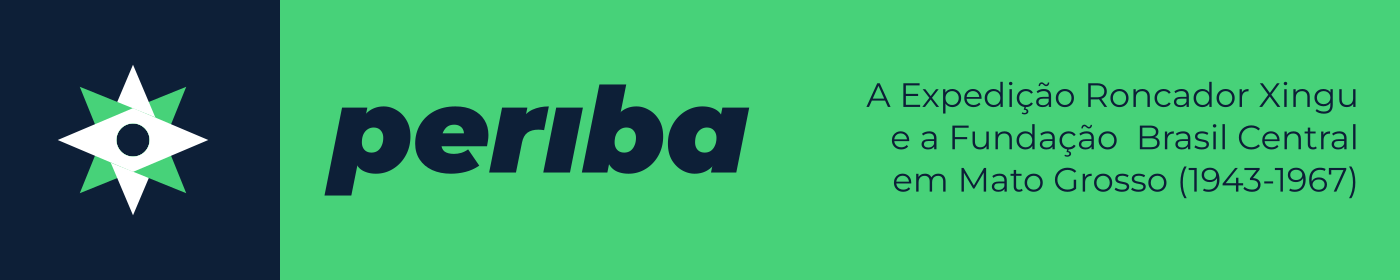
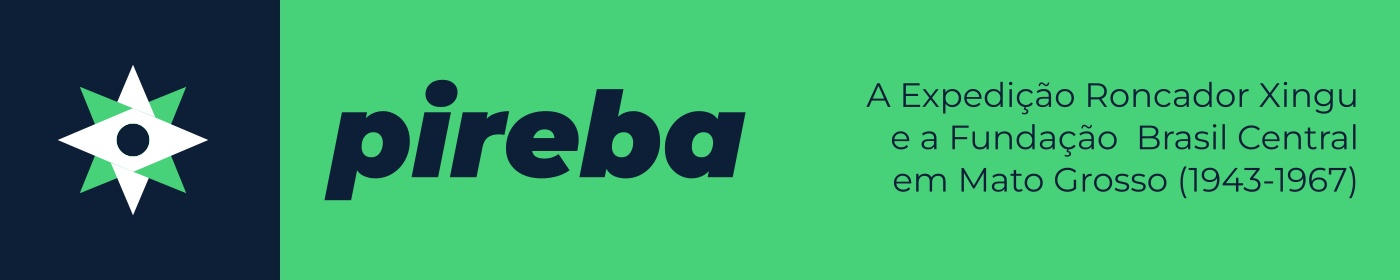
Atualização das images do site e do ReadMe

Changed region(s): [[0.2457, 0.2857, 0.5529, 0.6571], [0.43, 0.2857, 0.4607, 0.3429], [0.215, 0.6857, 0.2764, 0.7143]]

diff --git a/README.md b/README.md
@@ -1,10 +1,10 @@
 <div style="text-align: center;">
 <img src="./src/assets/images/screenshot.png" alt="Projeto Roncador-Xingu" title="Projeto Roncador-Xingu" title="Projeto Roncador-Xingu" /></div>
 
-## 📑 Sobre o _site_ Pireba - rio abaixo
+## 📑 Sobre o _site_ Pireba e a Expedição Roncador-Xingu
 
 <p align="justify">
-O site <em><strong>Pireba - rio abaixo</strong>: a Expedição Roncador-Xingu (1943-1967)</em> é um produto resultante da pesquisa "Desbravando o sertão, conquistando o Brasil: a Expedição Roncador Xingu e a Fundação Brasil Central em Mato Grosso (1943-1967)", uma investigação acerca da forma como se procedeu a Expedição Roncador-Xingu e a atuação da Fundação Brasil Central na Expedição dos Irmãos Villas-Boas, realizada no leste de Mato Grosso, na região do Vale do Araguaia. Desenvolvida sob a supervisão do Prof. Ms. Luiz Gabriel de Souza Nogueira, a pesquisa também contou com a participação das estudantes Aluna 01, Aluna 02 e Aluno 03 que, até o final do ano de 2022, integravam a <a href="https://www.instagram.com/escolatiradentesab/" title="Escola Estadual Militar Tiradentes 3° Sgt PM Justino Pinheiro dos Santos" target="_blank" rel="noreferrer noopener">Escola Estadual Militar Tiradentes 3° Sgt PM Justino Pinheiro dos Santos</a>, localizada no município de Água Boa-MT.</p>
+O site <em><strong>Pireba</strong>: a Expedição Roncador-Xingu (1943-1967)</em> é um produto resultante da pesquisa "Desbravando o sertão, conquistando o Brasil: a Expedição Roncador Xingu e a Fundação Brasil Central em Mato Grosso (1943-1967)", uma investigação acerca da forma como se procedeu a Expedição Roncador-Xingu e a atuação da Fundação Brasil Central na Expedição dos Irmãos Villas-Boas, realizada no leste de Mato Grosso, na região do Vale do Araguaia. Desenvolvida sob a supervisão do Prof. Ms. Luiz Gabriel de Souza Nogueira, a pesquisa também contou com a participação das estudantes Aluna 01, Aluna 02 e Aluno 03 que, até o final do ano de 2022, integravam a <a href="https://www.instagram.com/escolatiradentesab/" title="Escola Estadual Militar Tiradentes 3° Sgt PM Justino Pinheiro dos Santos" target="_blank" rel="noreferrer noopener">Escola Estadual Militar Tiradentes 3° Sgt PM Justino Pinheiro dos Santos</a>, localizada no município de Água Boa-MT.</p>
 
 <p align="justify">
 Sobre a realização do projeto, cabe ressaltar a fundamental importância do aporte financeiro concedido pela <a href="https://www.fapemat.mt.gov.br/" title="Fundação de Amparo à Pesquisa do Estado de Mato Grosso - Fapemat" target="_blank" rel="noreferrer noopener"> Fundação de Amparo à Pesquisa do Estado de Mato Grosso (Fapemat)</a>.</p>
